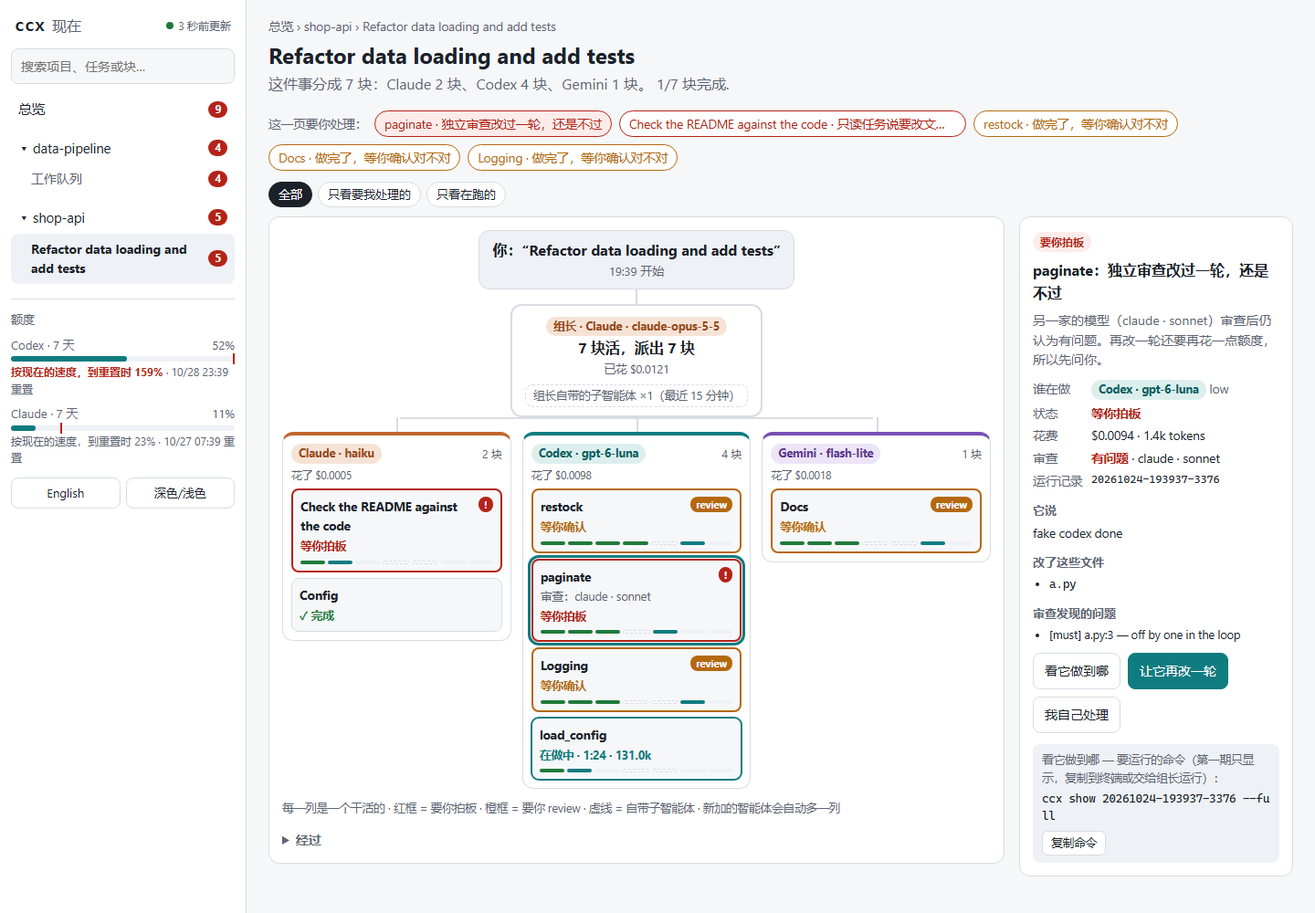
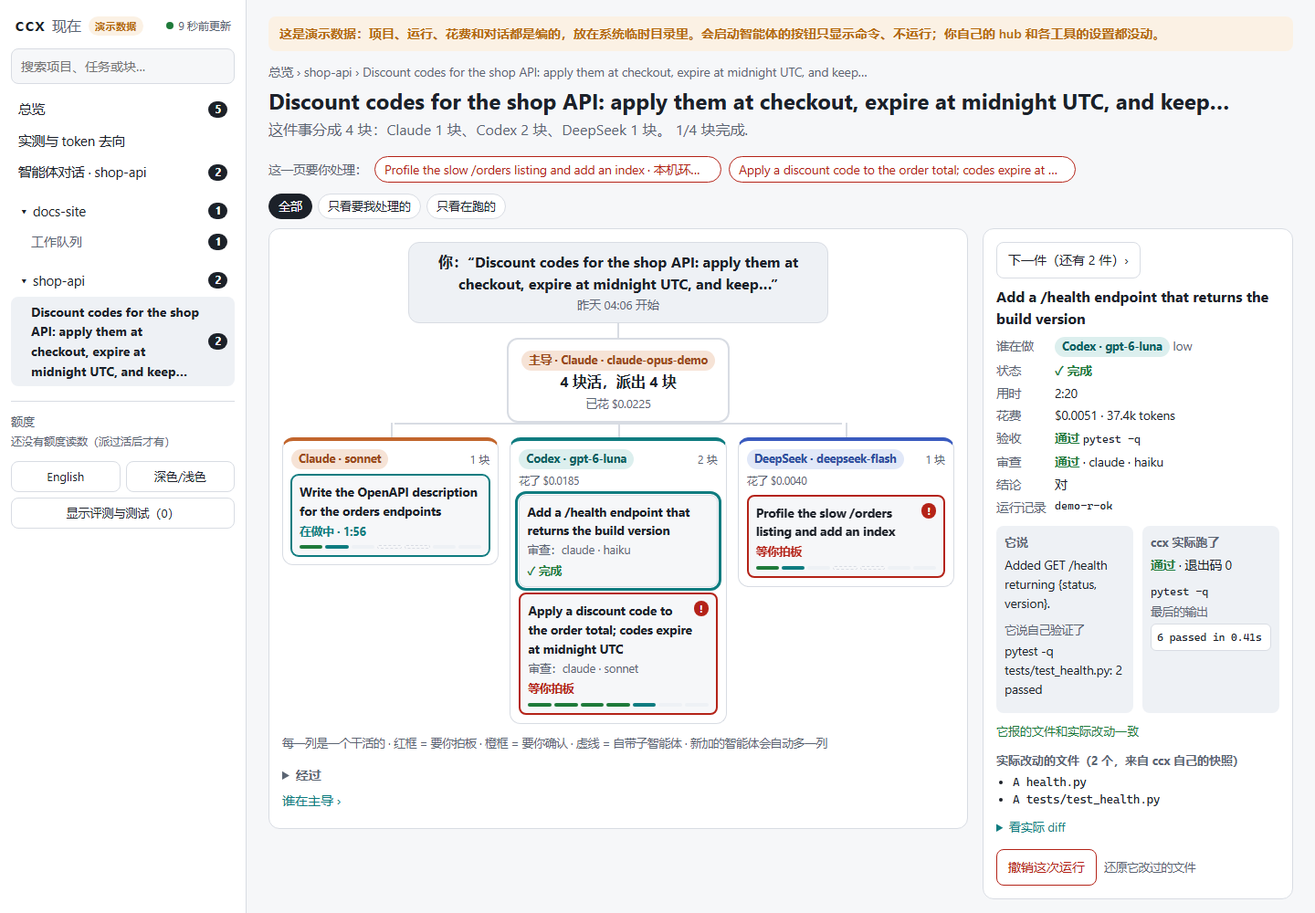
P2-3 ccx ui 截图：make_shots.py 用 ccx demo 数据重拍（英文 5 张 + 中文/深色），k6-month-zh 去掉旧估算 (#208)
* P2-3 截图：scripts/make_shots.py 用 ccx demo 数据和无头浏览器重拍 ccx ui（英文 5 张 + 中文/深色），重拍 k6-month-zh（去掉旧估算），删旧图；README 与网站各 2 张；页面文字里出现本机路径就不写图

* P2-3 用修正后的演示数据重拍（收据含审查费 $0.0051；token 页按真实不列审查运行）

* P2-3 README 图注去掉多余逗号

* changes/208.md

* 审查修正：features 去掉旧截图来源说法；中文图注写明按 API 价格折算；child session(s) 与三家一本账文案；中文深色图 alt；泄露检查不分大小写并加单测；浏览器查找路径补全；重拍 tokens-en

* README 图片和链接用绝对地址（PyPI 页面，#203；顺带修 main 上新进来的三处相对链接）

---------

diff --git a/site/index.html b/site/index.html
@@ -105,16 +105,16 @@
 
   <section id="ui">
     <h2>The live page: <code>ccx ui</code></h2>
-    <p class="note">Read-only, on 127.0.0.1 only, never calls a model: what waits for your call (red) or review (amber), what each agent is doing, and whether the quota lasts at this pace. Screenshots use demo data (<code>scripts/ui_demo.py</code>).</p>
+    <p class="note">Read-only, on 127.0.0.1 only, never calls a model: what waits for your call (red) or review (amber), what each agent is doing, and whether the quota lasts at this pace. Screenshots: <code>ccx demo</code>'s made-up data (<code>scripts/make_shots.py</code>).</p>
     <div class="figure shot">
-      <img class="for-light" src="assets/ui/task-zh.png" width="1440" height="1000" loading="lazy"
-           alt="ccx ui task page in Chinese: a task as an org chart, one column per worker, the side panel showing why a piece needs your call (demo data)">
+      <img class="for-light" src="assets/ui/task-en.png" width="1440" height="1000" loading="lazy"
+           alt="ccx ui task page: a task as an org chart, one column per worker; the side panel is one hand-off's receipt: cost, the check ccx ran again, the review (demo data)">
       <img class="for-dark" src="assets/ui/task-en-dark.png" width="1440" height="1000" loading="lazy"
            alt="ccx ui task page in English, dark theme (demo data)">
     </div>
     <div class="figure shot">
-      <img src="assets/ui/overview-zh.png" width="1440" height="1000" loading="lazy"
-           alt="ccx ui overview in Chinese: what waits for you, the current lead, projects and the quota forecast (demo data)">
+      <img src="assets/ui/tokens-en.png" width="1440" height="1000" loading="lazy"
+           alt="ccx ui, where tokens go: one ledger across agents, requests per run, a Codex helper session under its run (demo data)">
     </div>
   </section>
 

diff --git a/site/zh/index.html b/site/zh/index.html
@@ -105,16 +105,16 @@
 
   <section id="ui">
     <h2>本机界面：<code>ccx ui</code></h2>
-    <p class="note">只读页面，只监听 127.0.0.1，不调用模型：有什么等你拍板（红框）或 review（橙框）、每个智能体在干什么、额度按现在的速度够不够。截图用演示数据（<code>scripts/ui_demo.py</code>）。</p>
+    <p class="note">只读页面，只监听 127.0.0.1，不调用模型：有什么等你拍板（红框）或 review（橙框）、每个智能体在干什么、额度按现在的速度够不够。截图用 <code>ccx demo</code> 编好的数据（<code>scripts/make_shots.py</code>）。</p>
     <div class="figure shot">
       <img class="for-light" src="../assets/ui/task-zh.png" width="1440" height="1000" loading="lazy"
-           alt="ccx ui 任务页：一件任务画成组织图，每个干活的一列，右边是为什么要你拍板（演示数据）">
+           alt="ccx ui 任务页：一件任务画成组织图，每个干活的一列；右边是一次派活的收据：花费、ccx 重跑的验收、审查（演示数据）">
       <img class="for-dark" src="../assets/ui/task-en-dark.png" width="1440" height="1000" loading="lazy"
            alt="ccx ui 任务页，英文、深色（演示数据）">
     </div>
     <div class="figure shot">
-      <img src="../assets/ui/overview-zh.png" width="1440" height="1000" loading="lazy"
-           alt="ccx ui 总览：等你处理的事、现在的主导、项目和额度预测（演示数据）">
+      <img src="../assets/ui/k6-month-zh.png" width="1440" height="1000" loading="lazy"
+           alt="ccx ui 总管看板：各项目、现在的主导、这个月子智能体的花费（按 API 价格折算；实测之前不显示省了多少）（演示数据）">
     </div>
   </section>
 

diff --git a/scripts/make_shots.py b/scripts/make_shots.py
@@ -1,0 +1,166 @@
+"""Regenerate the `ccx ui` screenshots in docs/assets/ui/ from `ccx demo`'s data, with a headless Chrome or Edge.
+
+    python scripts/make_shots.py [--browser PATH] [--only NAME ...] [--keep]
+
+Each shot is the real page (the same server as `ccx ui`) on the demo hub ccx/demo.py writes (made-up projects, runs
+and costs, marked "demo data" on the page), opened at one route in one language and theme, 1440×1000. Before a PNG is
+written, the page's text (the browser's --dump-dom of the same route) is checked for the demo folder's path and the
+person's home folder: a screenshot must not show where this machine keeps its files. No account, no network, no
+agent CLI; the demo folder is deleted afterwards (--keep keeps it)."""
+from __future__ import annotations
+
+import argparse
+import json
+import os
+import re
+import shutil
+import subprocess
+import sys
+import tempfile
+import threading
+import time
+from pathlib import Path
+
+ROOT = Path(__file__).resolve().parent.parent
+sys.path.insert(0, str(ROOT))
+OUT = ROOT / "docs" / "assets" / "ui"
+SIZE = (1440, 1000)
+
+
+def browser(given: str | None) -> str:
+    for name in (given, os.environ.get("CCX_TEST_BROWSER"), "google-chrome", "google-chrome-stable", "chromium",
+                 "chromium-browser", "chrome", "msedge", "microsoft-edge"):
+        if name and (shutil.which(name) or Path(name).is_file()):
+            return shutil.which(name) or name
+    local = os.environ.get("LOCALAPPDATA", "")
+    for f in (r"C:\Program Files\Google\Chrome\Application\chrome.exe",
+              r"C:\Program Files (x86)\Google\Chrome\Application\chrome.exe",
+              local and os.path.join(local, "Google", "Chrome", "Application", "chrome.exe"),
+              r"C:\Program Files (x86)\Microsoft\Edge\Application\msedge.exe",
+              r"C:\Program Files\Microsoft\Edge\Application\msedge.exe",
+              "/Applications/Google Chrome.app/Contents/MacOS/Google Chrome",
+              "/Applications/Microsoft Edge.app/Contents/MacOS/Microsoft Edge"):
+        if Path(f).is_file():
+            return f
+    raise SystemExit("no Chrome, Chromium or Edge found: give one with --browser")
+
+
+def routes(d: dict) -> dict[str, str]:
+    """The routes the shots open, from the demo's own data (ids are hashes of the demo folder)."""
+    from ccx import demo
+    shop = next(p for p in d["projects"] if p["name"] == demo.SHOP)
+
+    def walk(pcs):
+        for pc in pcs:
+            yield pc
+            yield from walk(pc.get("children") or [])
+    task = next(t for t in shop["tasks"] if any(pc["run_id"] == "demo-r-ok" for pc in walk(t["pieces"])))
+    sel = {pc["run_id"]: pc["id"] for pc in walk(task["pieces"])}
+    return {"overview": "/", "tokens": "/tokens", "project": f"/{shop['id']}",
+            "task": f"/{shop['id']}/{task['id']}?sel={sel['demo-r-ok']}",
+            "judge": f"/{shop['id']}/{task['id']}?sel={sel['demo-r-review']}"}
+
+
+# name -> (route key, language, theme, scrolled to): 1440x1000, the language and theme the page is opened in. A
+# headless screenshot cannot scroll: a shot "scrolled to" y is the page rendered 1000 + y tall, cut from y, with the
+# top of the sidebar put back (as the page looks scrolled: the demo's content is the same every time). Needs Pillow.
+SIDEBAR_W = 270
+SHOTS = {
+    "overview-en": ("overview", "en", "light", 0),
+    "task-en": ("task", "en", "light", 0),
+    "judge-en": ("judge", "en", "light", 0),
+    "month-en": ("overview", "en", "light", 730),
+    "tokens-en": ("tokens", "en", "light", 1385),
+    "k6-month-zh": ("overview", "zh", "light", 690),
+    "overview-zh": ("overview", "zh", "light", 0),
+    "task-zh": ("task", "zh", "light", 0),
+    "task-en-dark": ("task", "en", "dark", 0),
+}
+
+
+def shoot(exe: str, url: str, lang: str, theme: str, size: tuple[int, int], out: Path | None, prof: Path) -> str:
+    """One page: its text after the scripts ran (--dump-dom), then, when `out` is given, its screenshot."""
+    base = [exe, "--headless=new", "--disable-gpu", "--no-first-run", "--no-default-browser-check", "--hide-scrollbars",
+            f"--user-data-dir={prof}", f"--lang={'zh-CN' if lang == 'zh' else 'en-US'}", f"--window-size={size[0]},{size[1]}",
+            "--force-device-scale-factor=1", "--virtual-time-budget=10000"]
+    if theme == "dark":
+        base.append("--force-dark-mode")
+    if sys.platform.startswith("linux"):
+        base.append("--no-sandbox")
+    r = subprocess.run([*base, "--dump-dom", url], capture_output=True, text=True, encoding="utf-8", errors="replace",
+                       timeout=120)
+    if "<main" not in r.stdout:
+        raise SystemExit(f"the page did not render: {r.stderr[-400:]}")
+    if out:
+        subprocess.run([*base, f"--screenshot={out}", url], capture_output=True, timeout=120, check=True)
+    return re.sub(r"\s+", " ", re.sub(r"<[^>]+>", " ", r.stdout))
+
+
+def scrolled(f: Path, top: int) -> None:
+    from PIL import Image
+    with Image.open(f) as im:
+        page = im.convert("RGB")
+    out = page.crop((0, top, SIZE[0], top + SIZE[1]))
+    out.paste(page.crop((0, 0, SIDEBAR_W, SIZE[1])), (0, 0))
+    out.save(f, optimize=True)
+
+
+def leaks(text: str, base: Path) -> list[str]:
+    """Where this machine keeps files, if the page text shows it: the demo folder, the home folder, a user folder.
+    The text is what the page draws (text nodes); attribute values such as a title tooltip are not drawn in a shot."""
+    found = []
+    for s in {str(base), str(base).replace("\\", "/"), str(Path.home()), str(Path.home()).replace("\\", "/")}:
+        if s and s in text:
+            found.append(s)
+    found += re.findall(r"[A-Za-z]:[\\/]+Users[\\/]+[^\\/\s]+|/(?:Users|home)/[^/\s]+", text, re.IGNORECASE)
+    return found
+
+
+def main() -> int:
+    from ccx import demo, ui
+    ap = argparse.ArgumentParser()
+    ap.add_argument("--browser")
+    ap.add_argument("--only", nargs="*", help="these shots only (names: " + ", ".join(SHOTS) + ")")
+    ap.add_argument("--out", default=str(OUT))
+    ap.add_argument("--keep", action="store_true", help="keep the demo folder")
+    a = ap.parse_args()
+    exe = browser(a.browser)
+    out = Path(a.out)
+    out.mkdir(parents=True, exist_ok=True)
+    base = demo.new_base()
+    try:
+        p = demo.build(base)
+        os.environ.update(demo.env(base))
+        srv = ui.UI(p, idle_s=300)
+        threading.Thread(target=srv.serve, daemon=True).start()
+        time.sleep(0.5)
+        rts = routes(ui.collect(p))
+        bad = 0
+        with tempfile.TemporaryDirectory() as profs:
+            for name, (key, lang, theme, top) in SHOTS.items():
+                if a.only and name not in a.only:
+                    continue
+                url = f"http://127.0.0.1:{srv.port}/#k={srv.token}&{rts[key]}"
+                prof = Path(profs) / name
+                h = SIZE[1] + top
+                text = shoot(exe, url, lang, theme, (SIZE[0], h), None, prof)
+                if leaks(text, base):
+                    print(f"{name}: NOT written, the page shows {leaks(text, base)}", file=sys.stderr)
+                    bad += 1
+                    continue
+                f = out / f"{name}.png"
+                shoot(exe, url, lang, theme, (SIZE[0], h), f, prof)
+                if top:
+                    scrolled(f, top)
+                print(f"wrote {f.relative_to(ROOT) if f.is_relative_to(ROOT) else f} ({f.stat().st_size // 1024} KB)")
+        srv.stop()
+        return 1 if bad else 0
+    finally:
+        if a.keep:
+            print("kept", base)
+        else:
+            demo.remove(base)
+
+
+if __name__ == "__main__":
+    sys.exit(main())

diff --git a/tests/test_make_shots.py b/tests/test_make_shots.py
@@ -1,0 +1,16 @@
+"""scripts/make_shots.py: a screenshot is not written when the page shows where this machine keeps files."""
+import importlib.util
+from pathlib import Path
+
+ROOT = Path(__file__).resolve().parent.parent
+spec = importlib.util.spec_from_file_location("make_shots", ROOT / "scripts" / "make_shots.py")
+shots = importlib.util.module_from_spec(spec)
+spec.loader.exec_module(shots)
+
+
+def test_leaks_finds_user_folders_either_slash_and_the_demo_folder(tmp_path):
+    base = tmp_path / "ccx-demo-x"
+    for text in (r"run in C:\Users\bob\proj", "run in c:/users/bob/proj", "see /home/bob/x", "see /Users/bob/x",
+                 f"folder {base}"):
+        assert shots.leaks(text, base), text
+    assert shots.leaks("Discount codes for the shop API · $0.0051 · demo-r-ok", base) == []

diff --git a/docs/features.zh.md b/docs/features.zh.md
@@ -33,21 +33,25 @@
 
 `ccx ui` 在本机打开一个页面：有什么等你处理（红框 = 要你拍板，橙框 = 要你 review）、谁在干什么（每个智能体一列，新加的自动多一列）、额度按现在的速度够不够。点任何一块，右边显示原因、依据和按钮（因本机环境停下的运行，`kind: env`，显示修复提示和 `ccx doctor`，不给“再试一次”；hub 还是空的时，首页说第一步该运行什么）。它也是总管看板：`ccx projects` 目录里的所有项目（项目里有工作队列，就算这里最近没派过活也会显示；没动静的项目只占一行；项目页摘出它规则文件里讲审批的原句），以及这个月子智能体花了多少；省了多少要等 `ccx trial` 实测之后才显示（到目前为止实测总花费基本持平，见 docs/measured.zh.md；和 `ccx report` 同一规则）。会改东西的按钮——停下运行、记对错、再改一轮、续跑、允许它改、改队列预算——先显示要运行的完整 `ccx` 命令，再点一次才运行；会启动子智能体的按钮会写明要花钱，并在后台跑。页面只告诉服务端“按了哪个按钮”，从不发命令；服务端只运行固定几条 ccx 命令，按参数列表运行（不经过 shell），只接受这个页面自己的请求（同源、口令、一次性确认）。“建议记下的事”每条有同意/拒绝按钮。显示页面只读 ccx 和各工具本来就写下的文件，不调用任何模型；只监听 127.0.0.1，页面关掉约一分钟后自己退出（若当时在后台标签页，最多 5 分钟）。要你 review 的卡片并排显示“它说”（它的总结、它说自己怎么验证的）和“ccx 实际跑了”（验收命令、退出码、最后约 800 字的输出），下面是实际改动的文件和 diff：用 ccx 自己给这次运行记的快照算（运行前的树 `undo.json` 到运行结束时的树 `end.json` 或 `undo.json` 里的 `after`），从不对着现在的目录算；它报的文件和实际改动对不上时，用红框列出差别。diff 太长会截断并写明“已截断”；没有这些快照的旧运行照旧只显示它自己报的文件，并加一句说明。首页列出所有正在跑的运行（谁在跑、跑了多久、知道的话还有 token 数），每条带“停下它”按钮，同样要再点一次确认。页面在后台标签页时，“还开着”的信号会说明这一点，服务端这时等 5 分钟而不是 1 分钟才退出。待办小标签改成按钮（键盘可达），新待办会通过读屏播报。“智能体对话”页面显示各智能体在对话板上互相写的话（`ccx say`），最新的话题在前；被机器连续条数上限停下的话题、在问你的消息（`@person`）会出现在待办里，你可以直接在页面上回复：先给你看，再点一次才以你的身份写入（via ui），最多 4000 字，永远不会运行（[对话板](board.zh.md#在-ccx-ui-里看和回复)）。`ccx ui --export 快照.html` 生成静态副本；`ccx config set ui.lang zh|en` 选语言。**实测与 token 去向**页面（只读）分三部分。(1) 已发布的数字（留出集和第 5 轮两张表：做法、做对、每次成功的花费、用时中位数；留出集里只看外部仓库的那几行是干净的，单独成一张小表；每张表的限制写成一行，并链接 [实测](measured.zh.md)；有测试按做法和轮次逐格对照 measured.md 和 measured.zh.md 里的表），下面是你自己账本里的数字（运行次数、成功率、每次成功的 API 等价花费，按模式和智能体分），标明“你自己的运行，不是对照比较”。(2) token 去向：Claude 和 Codex 记在同一本账上，按任务分组（没有任务按标签，再没有按单次运行）；每次运行显示新读入、读缓存、写缓存、输出 token 和 API 等价花费（日志里读得到时，还有它自己这段对话发了几次请求、首请求的输入、平均每次请求的输入——也就是每次重发的那段前缀，省 token 的改动要降的就是这几个数；这里不算子会话的请求，而 token 那几列含子会话），下面是它自己开的子会话（Codex 的来自运行记录里的 `codex_children`，Claude 的来自子运行的 `<session>/subagents/*.jsonl`）及其占这次运行的比例；一次运行的总数本来就含这些子会话。续跑或接着做的运行只显示它的子会话新增的部分（减掉前一次运行自己的记录，不受筛选和分组影响）；几次运行共用一个 Claude 会话时，每次运行只算自己那段时间里的子智能体轮次。比例不封顶：超过 100% 时页面会说明两边的数对不上。可按今天 / 7 天 / 全部和项目筛选（用了 `ccx ui --project` 时，“全部项目”也真的是全部）。按智能体的合计大的在前。只列最新的 40 个任务，并写明省掉了多少，以及它们的 token 和金额。(3) 主导对话：派过活的主导会话，最新的在前；打开一个时才读它的会话文件，用的就是 `ccx lead --breakdown` 和 `ccx lead --cache` 的函数：每一轮重读的内容按部分有多大、建议，以及提示缓存断开的那几轮和可能的原因。只读账本里点名的会话；返回内容有大小上限；所有标签和会话文字都转义；hub 为空时说明该先运行什么。每个项目页（以及任务的“经过”下面）有**谁在主导**：现在由谁主导、每段时间由谁主导（来自 `.ccx/handoffs/` 里的交接记录），以及“交给 Codex 继续”/“交给 Claude 继续”（装了 `dsh` 的机器上还有 DeepSeek）。按钮同样要再点一次才运行 `ccx handoff --to <另一个> --by <当前> --cwd <项目>`；当前主导在这个目录的对话文件存在时加上 `--from-transcript <当前> --no-model`（只用代码整理，不调模型）。结果是交接文件和一行话：在那个工具里打开这个项目时贴给它（Claude Code 和 Codex 启动时也会自动显示一次这份交接；DeepSeek 不会，这一行让它去读那份文件）。找不到那个对话文件时，交接是空白模板，页面在确认前和完成后都会说明：先自己填好。任务时间线标出任务开始时由谁主导、之后每次换主导。页面上没有别的新写入。**`ccx demo`**（或 `ccx ui --demo`）不用账号就能看到这些：它在系统临时目录新建一个文件夹，写入编好的数据（两个项目、各种状态的运行且带真实快照 diff、一次派活的完整收据——花了多少、ccx 跑的检查、另一家的审查——审查本身也记成运行、一个工作队列、一个被停下的对话话题和一个 `@person` 提问、一个月的花费，以及给 token 去向页用的每次请求数和一个 Codex 子会话），只让它自己的进程指向那里，用同一个页面显示并标明“演示数据”。离线可用，不启动任何智能体：会启动智能体的按钮只显示命令；记对错或交接只写进演示文件夹，页面关掉后文件夹会删掉（`--keep` 或 `--dir` 保留；`--export 文件` 生成静态副本，之后同样删掉文件夹）。`--dir` 只接受新的或空的文件夹，或以前的演示文件夹。评测和测试（eval-* 标签、`--no-ab`、ccx 自己的探针、在临时目录或项目 `.ccx` 目录里跑的）默认不显示，点“显示评测与测试”才出来；`ccx verify RUN --dismiss --note 原因` 把测试残留从“等你处理”里清掉，不算对也不算错，路由也不从它学习。
 
-<img alt="ccx ui 总管看板：所有项目里等你处理的事、本月花费、目录里没动静的项目（演示数据）" src="assets/ui/k6-month-zh.png" width="100%">
+截图：`ccx demo` 的数据，用 `python scripts/make_shots.py` 拍。
 
-<img alt="按钮的第二次确认：要运行的完整命令，以及会不会花钱（演示数据）" src="assets/ui/k6-confirm-zh.png" width="100%">
+<img alt="ccx ui 总览：所有项目里等你处理的事（提问、要你拍板、看结果）、正在跑的（演示数据）" src="assets/ui/overview-zh.png" width="100%">
 
-<img alt="ccx ui 总览：等你处理的 9 件事、现在的主导、两个项目和额度预测（演示数据）" src="assets/ui/overview-zh.png" width="100%">
+<img alt="ccx ui 任务页：一件任务画成组织图，每个干活的一列；右边是一次派活的收据：谁做的、花费、ccx 重跑的验收、审查、结论、实际改动的文件（演示数据）" src="assets/ui/task-zh.png" width="100%">
 
-<img alt="ccx ui 任务页：一件任务画成组织图，每个干活的一列，右边是为什么要你拍板（演示数据）" src="assets/ui/task-zh.png" width="100%">
+<img alt="ccx ui 总管看板：各项目、现在的主导、这个月的花费（实测省多少之前只显示花费）、谁在哪类活上更靠谱（演示数据）" src="assets/ui/k6-month-zh.png" width="100%">
 
-<details><summary>英文界面、深色</summary>
+<details><summary>英文界面（判断卡、token 去向）、深色</summary>
 
-<img alt="ccx ui in English, dark theme: the same task page (demo data)" src="assets/ui/task-en-dark.png" width="100%">
+<img alt="ccx ui decision card in English: a run whose review still finds problems, what the agent says beside what ccx ran (demo data)" src="assets/ui/judge-en.png" width="100%">
+
+<img alt="ccx ui, where tokens go, in English (demo data)" src="assets/ui/tokens-en.png" width="100%">
+
+<img alt="ccx ui task page in English, dark theme (demo data)" src="assets/ui/task-en-dark.png" width="100%">
 
 </details>
 
-截图是用 `python scripts/ui_demo.py --plain` 生成的：临时 hub、模拟命令行跑出的真实 ccx 运行，不含任何人的真实工作。
+上面的截图用的是 `ccx demo` 编好的数据（`python scripts/make_shots.py` 拍）；`python scripts/ui_demo.py` 仍可生成临时 hub、用模拟命令行跑真实的 ccx 运行，不含任何人的真实工作。
 
 ## 它怎么工作（一个例子）
 

diff --git a/docs/features.md b/docs/features.md
@@ -89,22 +89,32 @@ Evaluations and tests (eval-* labels, `--no-ab`, ccx's probes, runs in the tempo
 folder) stay hidden until you press "show evaluations and tests"; `ccx verify RUN --dismiss --note why` clears a
 leftover from "waits for you" without counting it right or wrong, and routing never learns from it.
 
-<img alt="ccx ui task page in English, dark theme: a task as an org chart, one column per worker, the side panel showing why a piece needs your call (demo data)" src="assets/ui/task-en-dark.png" width="100%">
+Screenshots: `ccx demo`'s data, taken by `python scripts/make_shots.py`.
 
-<details><summary>Chinese interface, light</summary>
+<img alt="ccx ui overview: what waits for you across projects (questions, your calls, results to check), what is running (demo data)" src="assets/ui/overview-en.png" width="100%">
 
-<img alt="ccx ui as the manager's board: what waits for you across projects, this month's spend, the catalog's quiet projects (demo data; taken before the saving estimate was removed)" src="assets/ui/k6-month-zh.png" width="100%">
+<img alt="ccx ui task page: a task as an org chart, one column per worker; the side panel is one hand-off's receipt: who, cost, the check ccx ran again, the review, the verdict, the files actually changed (demo data)" src="assets/ui/task-en.png" width="100%">
 
-<img alt="A button's second click: the exact command, and whether it costs money (demo data)" src="assets/ui/k6-confirm-zh.png" width="100%">
+<img alt="ccx ui decision card: a run whose review still finds problems, what the agent says beside what ccx ran (demo data)" src="assets/ui/judge-en.png" width="100%">
 
-<img alt="ccx ui overview in Chinese: nine things waiting, the current lead, two projects and the quota forecast (demo data)" src="assets/ui/overview-zh.png" width="100%">
+<img alt="ccx ui as the manager's board: projects, the current leads, this month's spend (spend only until a saving is measured), who is reliable at what (demo data)" src="assets/ui/month-en.png" width="100%">
 
-<img alt="ccx ui task page in Chinese (demo data)" src="assets/ui/task-zh.png" width="100%">
+<img alt="ccx ui, where tokens go: one ledger across agents, requests per run, a Codex helper session under its run (demo data)" src="assets/ui/tokens-en.png" width="100%">
+
+<details><summary>Chinese interface; dark theme</summary>
+
+<img alt="ccx ui overview in Chinese (demo data)" src="assets/ui/overview-zh.png" width="100%">
+
+<img alt="ccx ui task page in Chinese, with the receipt (demo data)" src="assets/ui/task-zh.png" width="100%">
+
+<img alt="ccx ui manager's board in Chinese: projects and this month's spend (demo data)" src="assets/ui/k6-month-zh.png" width="100%">
+
+<img alt="ccx ui task page in English, dark theme (demo data)" src="assets/ui/task-en-dark.png" width="100%">
 
 </details>
 
-The screenshots come from `python scripts/ui_demo.py --plain`: a throwaway hub with real ccx runs on stand-in CLIs,
-nobody's real work.
+The screenshots above come from `ccx demo`'s made-up data (`python scripts/make_shots.py`); `python scripts/ui_demo.py`
+still builds a throwaway hub with real ccx runs on stand-in CLIs, nobody's real work.
 
 ## How it works (one example)
 

diff --git a/README.md b/README.md
@@ -67,6 +67,11 @@ after the round-5 fixes (the first run, before them, was 17/20 at $0.248).
 **Try it without accounts:** `ccx demo` opens `ccx ui` on made-up projects, runs and costs in a temporary
 folder (offline, no Claude or Codex login; your own setup is not touched).
 
+<table><tr>
+<td width="50%"><img alt="ccx ui, one hand-off's receipt: Codex gpt-6-luna low did it, cost $0.0051 with its review, the check ccx ran again passed, Claude haiku's review passed, the files actually changed from ccx's own snapshots (ccx demo data)" src="https://raw.githubusercontent.com/SUPERD6/relayline/main/docs/assets/ui/task-en.png"></td>
+<td width="50%"><img alt="ccx ui, where tokens go: one ledger across Claude, Codex and DeepSeek, requests per run, a Codex helper session under its run (ccx demo data)" src="https://raw.githubusercontent.com/SUPERD6/relayline/main/docs/assets/ui/tokens-en.png"></td>
+</tr><tr><td align="center">Every hand-off's receipt</td><td align="center">Where the tokens went</td></tr></table>
+
 ## Quick start
 
 ```bash

diff --git a/changes/208.md b/changes/208.md
@@ -1,0 +1,5 @@
+- `ccx ui` screenshots (P2-3): `scripts/make_shots.py` takes them from `ccx demo`'s data with a headless Chrome or
+  Edge (1440×1000, by route, language and theme; a scrolled view is a taller render cut and given its sidebar back)
+  and refuses to write a shot whose page text shows a local path. New English shots (overview, a hand-off's receipt,
+  the decision card, projects and spend, where tokens go), the Chinese month board retaken without the removed saving
+  estimate, outdated shots removed; README and the website show two each. The page's "1 tasks" now reads "task(s)".
